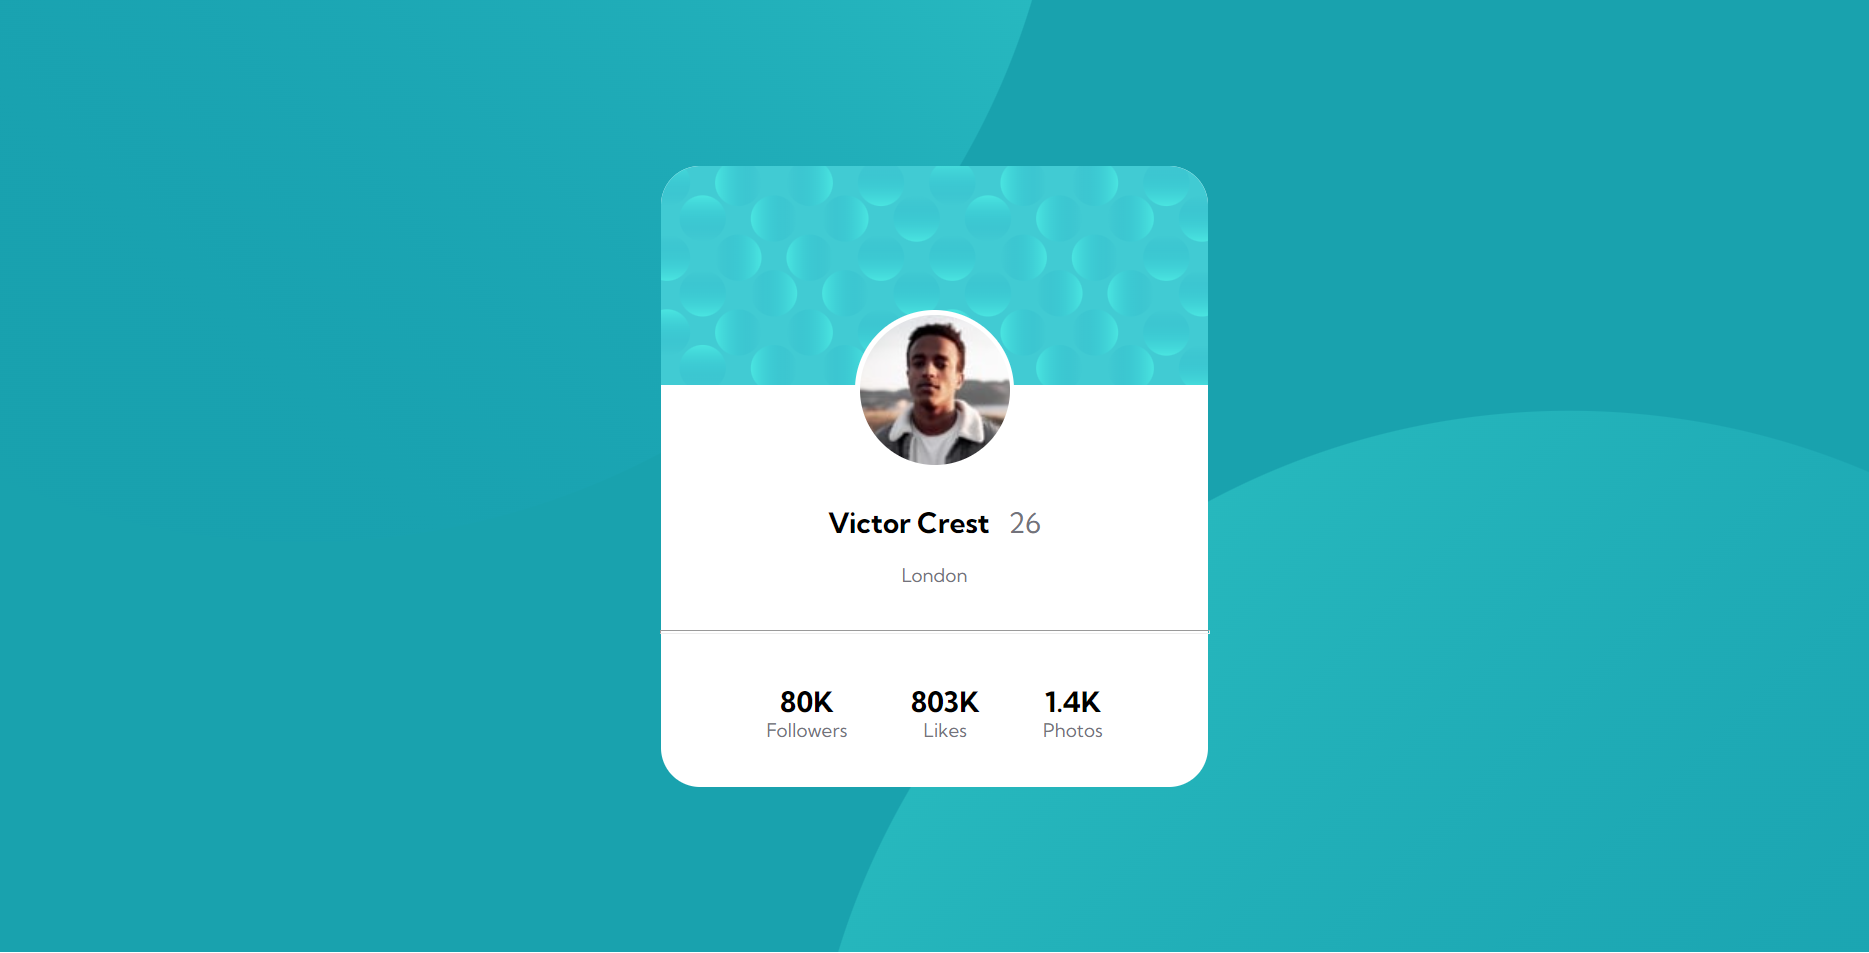
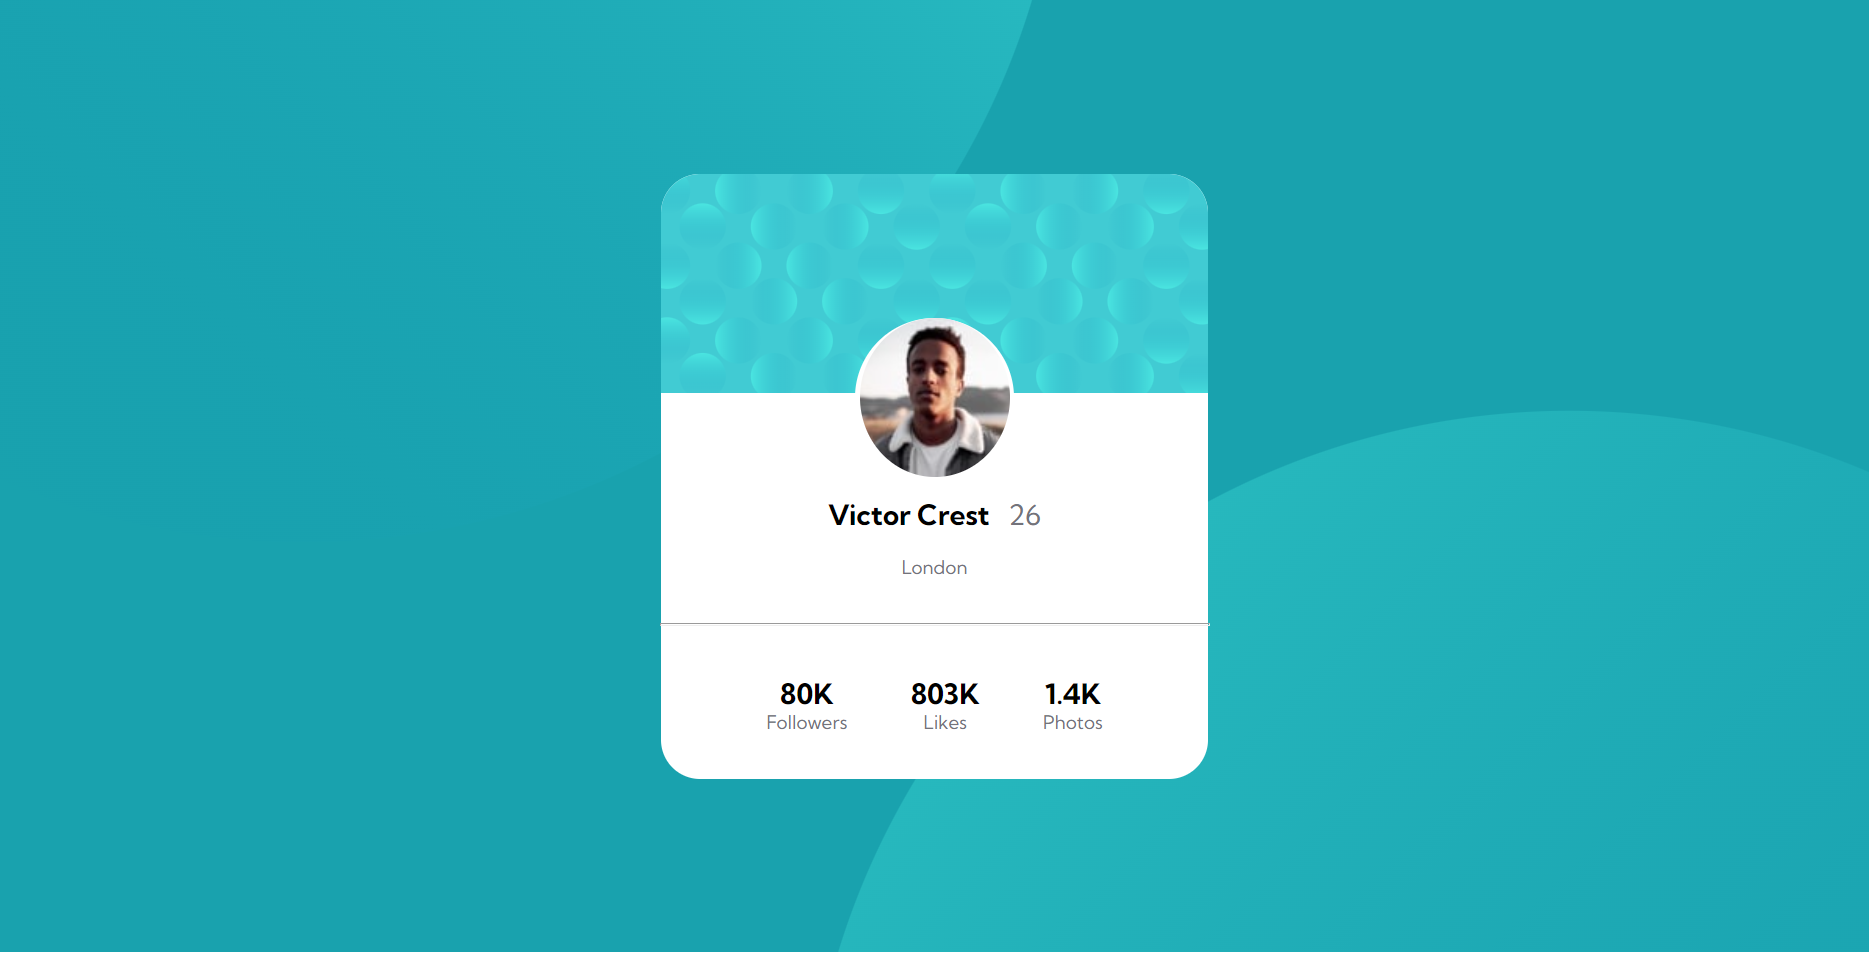
Fixed profile picture

diff --git a/style.css b/style.css
@@ -61,10 +61,8 @@ main p:not(.age) {
     background-color: #fff;
     display: flex;
     justify-content: center;
-    align-items: center;
-    position: relative;
-    top: -48px;
-    margin-bottom: -25px;
+    margin-top: -48px;
+    margin-bottom: 13px;
 }
 
 .profile-image {
